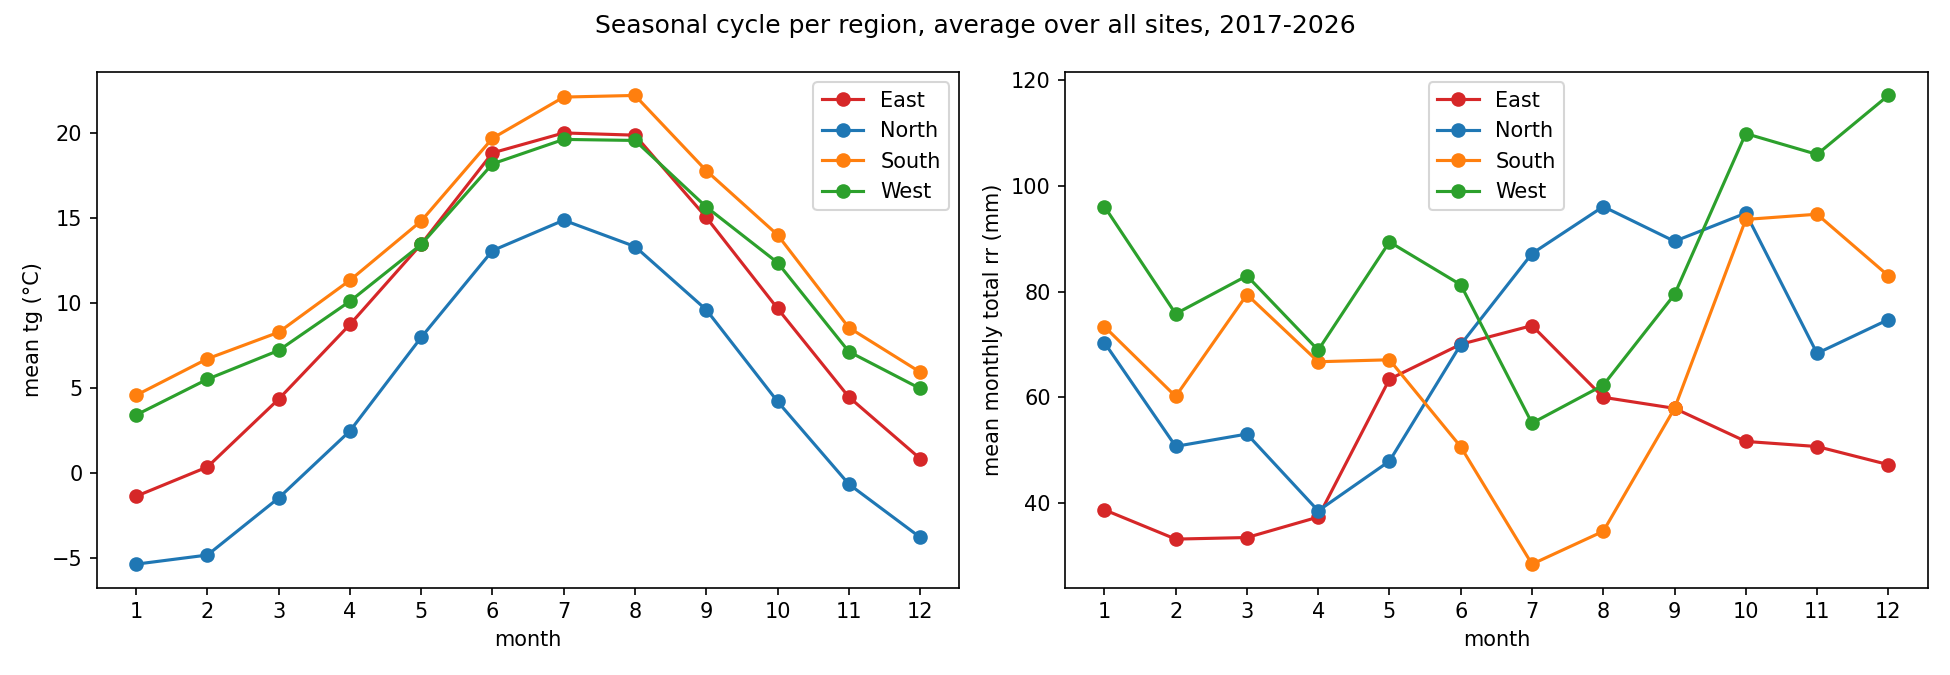
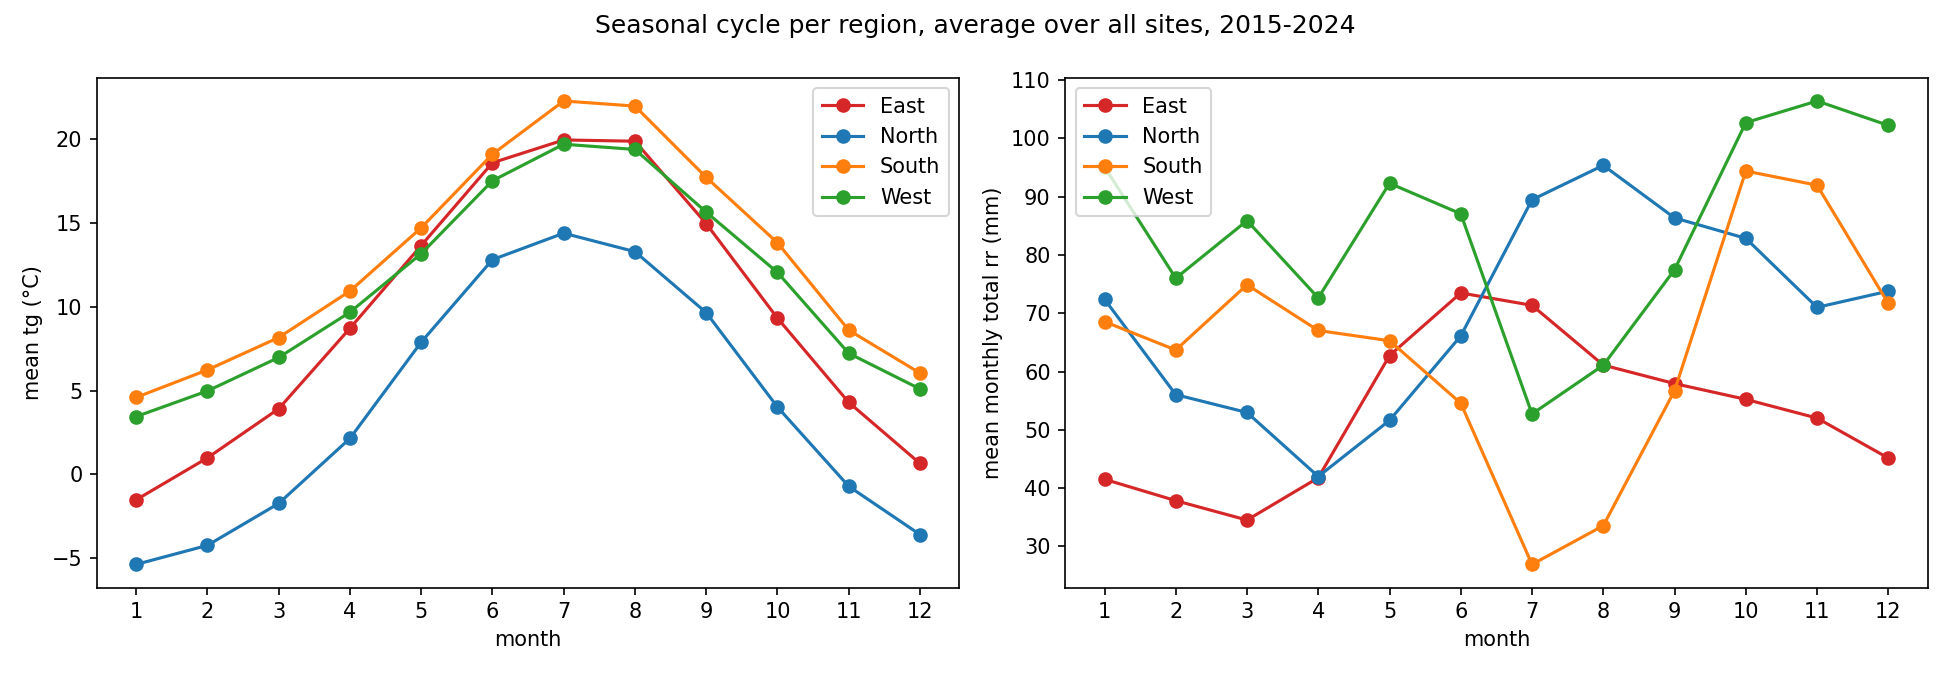
New extraction

diff --git a/03_merge_eobs.py b/03_merge_eobs.py
@@ -2,7 +2,7 @@
 03_merge_eobs.py -- MERGE the E-OBS chunks, CHECK, SAVE and PLOT
 - Reads the 40 chunks in output/eobs_chunks/.
 - Checks completeness (all sites x all days, no duplicates, NaN report).
-- Saves output/eobs_daily_2017_2026.parquet and .csv.
+- Saves output/eobs_daily_2015_2024.parquet and .csv.
 - Saves plots to figures/.
 """
 from pathlib import Path
@@ -16,14 +16,14 @@ import matplotlib.pyplot as plt
 BASE_DIR = Path(__file__).resolve().parent
 CHUNK_DIR = BASE_DIR / "output" / "eobs_chunks"
 CELLS_CSV = BASE_DIR / "output" / "sites_eobs_cells.csv"
-OUT_PARQUET = BASE_DIR / "output" / "eobs_daily_2017_2026.parquet"
-OUT_CSV = BASE_DIR / "output" / "eobs_daily_2017_2026.csv"
+OUT_PARQUET = BASE_DIR / "output" / "eobs_daily_2015_2024.parquet"
+OUT_CSV = BASE_DIR / "output" / "eobs_daily_2015_2024.csv"
 FIG_DIR = BASE_DIR / "figures"
 
-START_DATE, END_DATE = "2017-01-01", "2026-06-30"
-LAST_FULL_YEAR = 2025          # for annual rainfall totals (2026 is half a year)
+START_DATE, END_DATE = "2015-01-01", "2024-12-30"
+LAST_FULL_YEAR = 2024          # for annual rainfall totals (2026 is half a year)
 REGION_ORDER = ["East", "North", "South", "West"]
-YEARS = range(2017, 2027)
+YEARS = range(2015, 2025)
 REGION_COLORS = {"East": "tab:red", "North": "tab:blue",
                  "South": "tab:orange", "West": "tab:green"}
 
@@ -144,7 +144,7 @@ for ax in axes:
     ax.set_xticks(range(1, 13))
     ax.set_xlabel("month")
     ax.legend()
-fig.suptitle("Seasonal cycle per region, average over all sites, 2017-2026")
+fig.suptitle("Seasonal cycle per region, average over all sites, 2015-2024")
 fig.tight_layout()
 f = FIG_DIR / "03_seasonal_cycle_by_region.png"
 fig.savefig(f, dpi=150)
@@ -157,13 +157,13 @@ site_rr = (df[df["year"] <= LAST_FULL_YEAR].groupby(["wb_id", "year"])["rr"].sum
              .groupby("wb_id").mean().rename("rr_annual"))
 m = cells.set_index("wb_id").join(site_tg).join(site_rr)
 print(f"Site mean tg: {m['tg_mean'].min():.1f} to {m['tg_mean'].max():.1f} °C")
-print(f"Site mean annual rr (2017-{LAST_FULL_YEAR}): "
+print(f"Site mean annual rr (2015-{LAST_FULL_YEAR}): "
       f"{m['rr_annual'].min():.0f} to {m['rr_annual'].max():.0f} mm")
 
 fig, axes = plt.subplots(1, 2, figsize=(16, 8))
 for ax, col, cmap, label in [
-        (axes[0], "tg_mean", "RdYlBu_r", "mean tg 2017-2026 (°C)"),
-        (axes[1], "rr_annual", "YlGnBu", f"mean annual rr 2017-{LAST_FULL_YEAR} (mm)")]:
+        (axes[0], "tg_mean", "RdYlBu_r", "mean tg 2015-2024 (°C)"),
+        (axes[1], "rr_annual", "YlGnBu", f"mean annual rr 2015-{LAST_FULL_YEAR} (mm)")]:
     sc = ax.scatter(m["lon"], m["lat"], c=m[col], cmap=cmap, s=10)
     fig.colorbar(sc, ax=ax, shrink=0.6, label=label)
     ax.set_aspect(1 / np.cos(np.radians(50)))

diff --git a/02_extract_eobs.py b/02_extract_eobs.py
@@ -1,7 +1,7 @@
 """
 02_extract_eobs.py -- EXTRACT E-OBS rr and tg for every site
 - Reads output/sites_eobs_cells.csv (made by 01_check_sites_eobs.py).
-- Loops region (East, North, South, West) -> year (2017..2026).
+- Loops region (East, North, South, West) -> year (2015..2024).
 - One chunk per region-year: output/eobs_chunks/eobs_{region}_{year}.parquet
 - Existing chunks are skipped, so the script can be stopped and restarted.
 """
@@ -20,9 +20,9 @@ EOBS_FILES = {
 }
 CHUNK_DIR = BASE_DIR / "output" / "eobs_chunks"
 
-START_DATE, END_DATE = "2017-01-01", "2026-06-30"
+START_DATE, END_DATE = "2015-01-01", "2024-12-30"
 REGION_ORDER = ["East", "North", "South", "West"]
-YEARS = range(2017, 2027)
+YEARS = range(2015, 2025)
 
 # TEST MODE: list of (region, year) to run only these chunks; None = run all
 ONLY_CHUNKS = None

diff --git a/04_plot_random_sites.py b/04_plot_random_sites.py
@@ -1,6 +1,6 @@
 """
 04_plot_random_sites.py -- PLOT daily E-OBS series for random example sites
-- Reads output/eobs_daily_2017_2026.parquet.
+- Reads output/eobs_daily_2015_2024.parquet.
 - Picks N_PER_REGION random sites per region (fixed seed = repeatable).
 - Saves one figure per region: figures/04_random_sites_{region}.png
 """
@@ -12,7 +12,7 @@ import matplotlib.pyplot as plt
 
 # ----------------------------------------------------------------- settings
 BASE_DIR = Path(__file__).resolve().parent
-DATA = BASE_DIR / "output" / "eobs_daily_2017_2026.parquet"
+DATA = BASE_DIR / "output" / "eobs_daily_2015_2024.parquet"
 FIG_DIR = BASE_DIR / "figures"
 
 REGION_ORDER = ["East", "North", "South", "West"]

diff --git a/01_check_sites_eobs.py b/01_check_sites_eobs.py
@@ -26,7 +26,7 @@ EOBS_FILES = {
 FIG_DIR = BASE_DIR / "figures"
 OUT_DIR = BASE_DIR / "output"
 
-START_DATE, END_DATE = "2017-01-01", "2026-06-30"
+START_DATE, END_DATE = "2015-01-01", "2024-12-30"
 REGION_ORDER = ["East", "North", "South", "West"]
 REGION_COLORS = {"East": "tab:red", "North": "tab:blue",
                  "South": "tab:orange", "West": "tab:green"}
